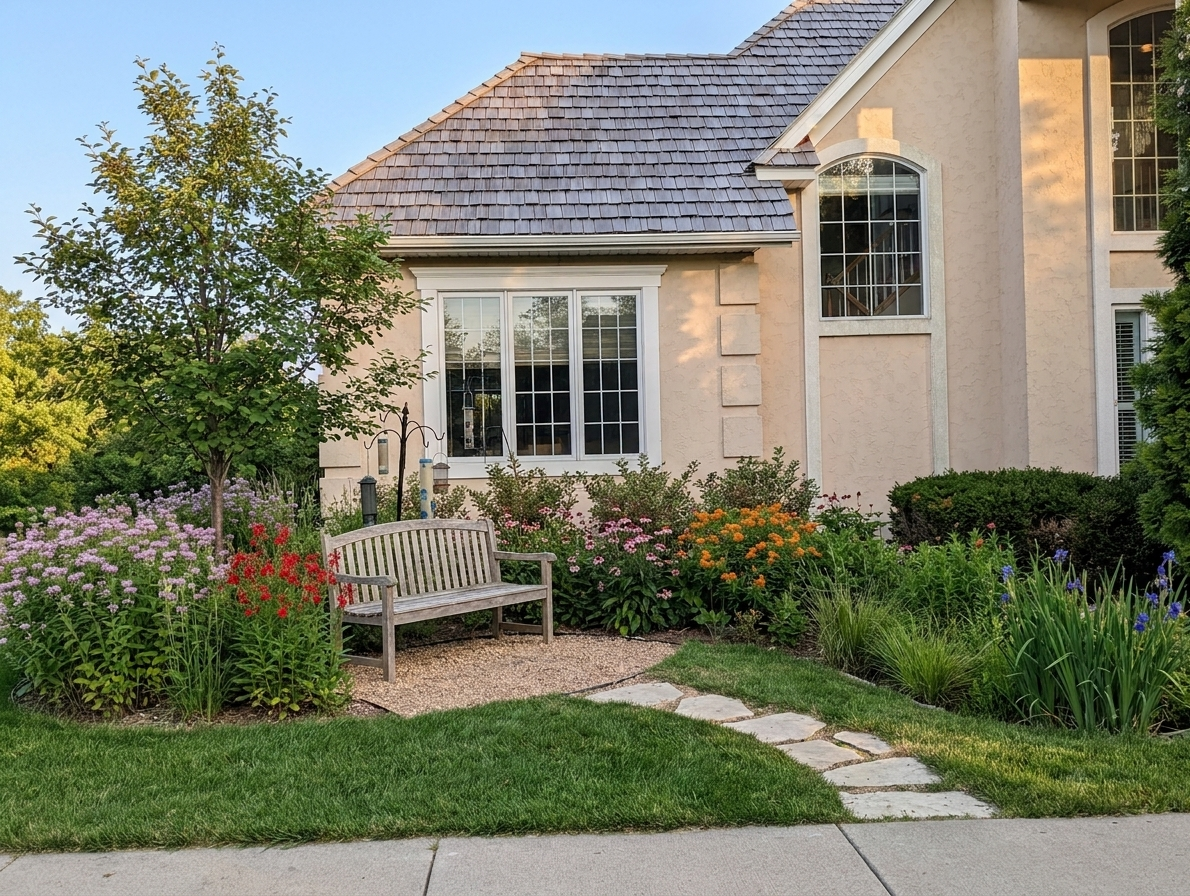
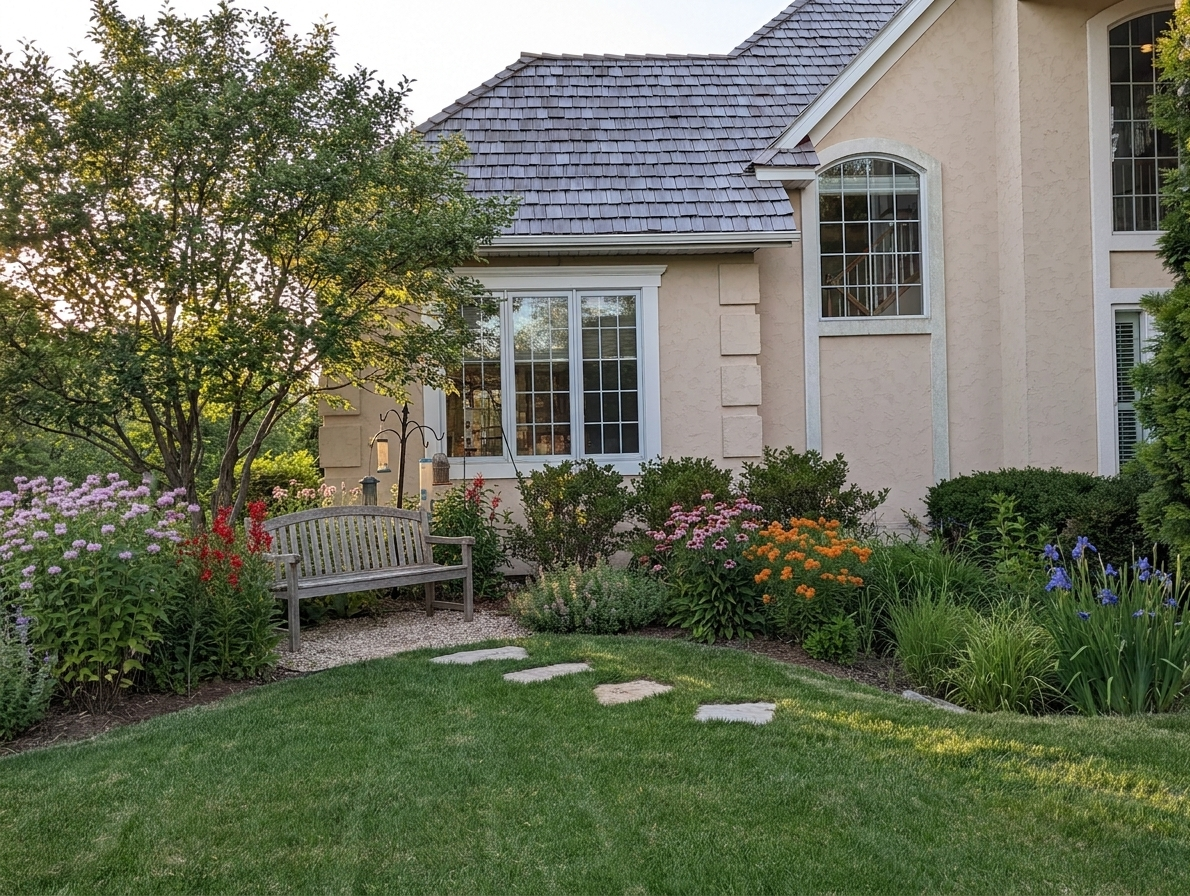
Fix bench-shot rendering: remove fake sidewalk in foreground
Nano Banana Pro was hallucinating a concrete sidewalk strip across
the foreground of the bench-pocket render — there is no sidewalk in
front of this lawn in the actual design. Lawn meets planting bed
directly with a soft trench-cut edge.

Tightened the prompts:
- COMMON_CONTEXT now contains an explicit "DO NOT add" list:
  no sidewalk, no concrete walk, no flagstone patio, no gravel
  borders, no decorative rocks
- year3_with_bench prompt clarifies that the path is "three or four
  small stepping stones embedded in lawn / planting" — not a
  continuous paved walk — and that the pea-gravel pad only sits
  under the bench, not extending outward
- Foreground explicitly specified as "just lawn"

Re-rendered render-year3_with_bench.png with the tighter prompts;
the result correctly shows lawn → bed transition, three discrete
limestone steppers, bench tucked into the planting under the
serviceberry, no foreground hardscape.

🤖 Generated with [Claude Code](https://claude.com/claude-code)

diff --git a/landscape-design/front-yard-savanna/render.py b/landscape-design/front-yard-savanna/render.py
@@ -63,10 +63,19 @@ running along the foundation under the bay window, with patches of white \
 river-rock visible at the right edge near a downspout.
 
 I am replacing the mugo pines with a Minnesota-native Oak Savanna Edge \
-planting. Please keep the house, sky, lawn, sidewalk, and overall photo \
+planting. Please keep the house, sky, lawn, and overall photo \
 composition exactly the same — only edit the planting bed area in front of \
 the bay window. Do not change the camera angle. Do not add buildings or \
 fences. Keep the bird feeder shepherd's hooks visible on the left.
+
+CRITICAL — DO NOT add any of these (they are not in the design):
+  - No sidewalk, walkway, or concrete strip across the foreground
+  - No paving stones, flagstone patio, or pavement of any kind in the
+    foreground or front of the planting bed
+  - No driveway, curb, or street visible in the front of the lawn
+  - No decorative rocks, gravel mulch, or stone borders in the bed
+The transition is simple: existing lawn meets the new planting bed
+directly with a soft trench-cut edge. Foreground is grass lawn only.
 """
 
 PROMPTS = {
@@ -202,17 +211,24 @@ emphasizing the BENCH POCKET in the WEST third of the bed:
 
   - WEST third (LEFT of bay window): a young Serviceberry tree about 8 \
     feet tall casting dappled afternoon shade over a weathered-cedar \
-    BENCH set in a pea-gravel pad, oriented to face EAST (back toward \
-    the front yard). The bench is partially nested into the planting, \
-    surrounded on three sides by tall prairie forbs.
+    BENCH set in a small pea-gravel pad about 5 feet wide, oriented to \
+    face EAST (back toward the front yard). The bench is partially \
+    nested into the planting, surrounded on three sides by tall prairie \
+    forbs. The pea-gravel pad is barely visible — it's just under the \
+    bench, not extending into the lawn.
   - Behind the bench: drifts of Wild Bergamot (lavender-pink pom-poms) \
     and a few Cardinal Flower spikes in red.
   - In front of the bay window: low Ninebarks pruned about 30 inches \
     tall, drifts of Purple Coneflower and Butterfly Milkweed (orange).
-  - Stepping-stone limestone path enters from the right and curves \
-    gracefully to the bench.
+  - Three or four small natural-cut limestone STEPPING STONES (not a \
+    paved path, not flagstone patio — just spaced individual stones \
+    set into the lawn or planting), forming a gentle suggestion of a \
+    path from the right edge of the bed to the bench. The stones are \
+    embedded in the planting and grass — they should not look like \
+    a continuous walk.
   - At the RIGHT side: vegetated bioswale with sedges and Blue Flag \
     Iris. NO ROCK.
+  - FOREGROUND: just lawn. No sidewalk, no concrete, no paving.
 
 Time of day: late afternoon, warm golden side light. Preserve the \
 bird-feeder shepherd's hooks. Photographic, naturalistic, the bench \